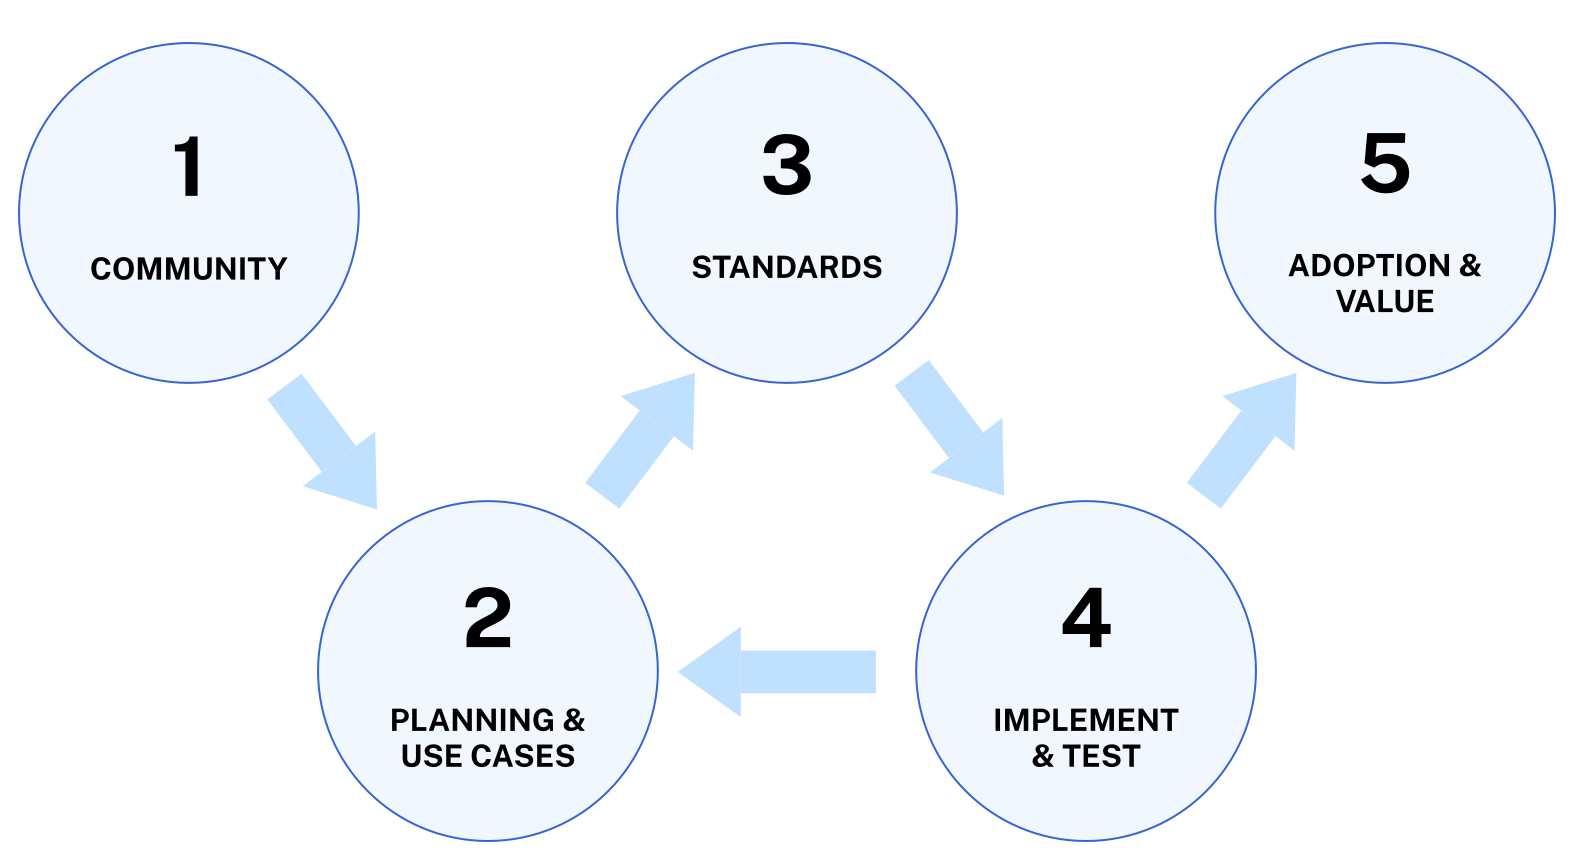
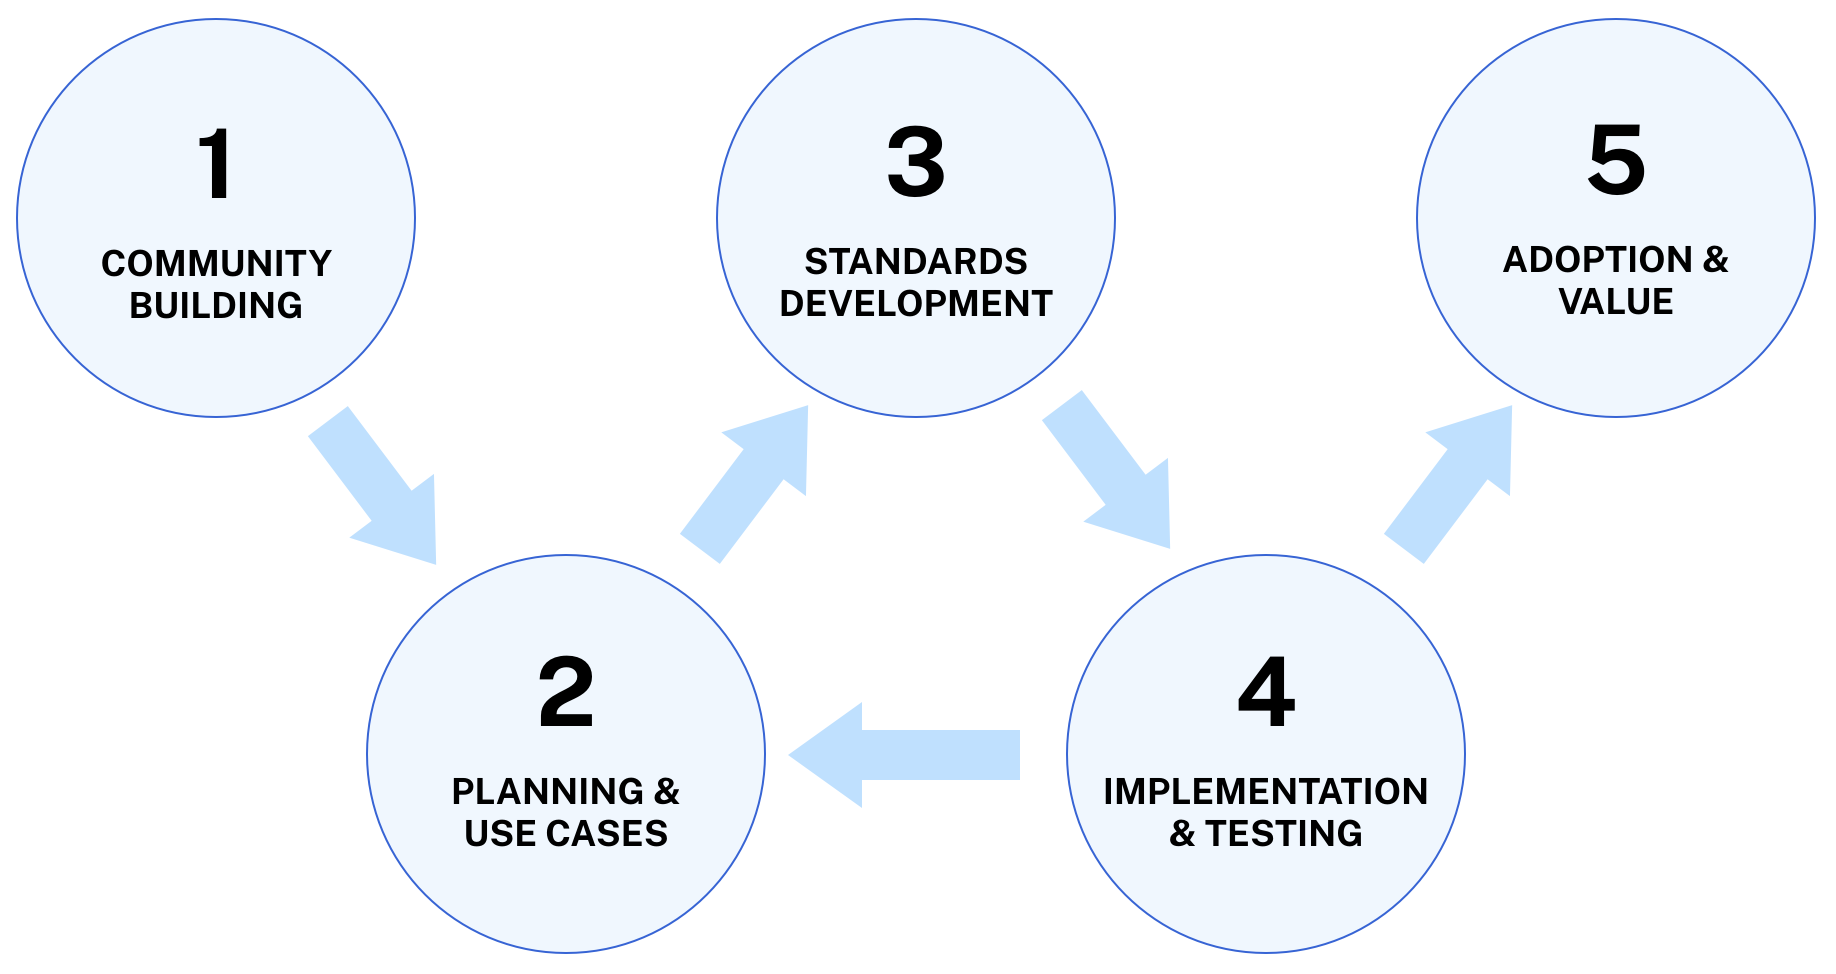
Update with grammar and clarity fixes

diff --git a/source/stylesheets/site.css.scss b/source/stylesheets/site.css.scss
@@ -141,6 +141,12 @@ ol.section-list li {
   margin:1rem 0;
   a:first-child {font-weight:bold;}
 }
+
+ol.action-list>li {
+font-weight:bold;
+ margin-bottom:1em;
+ul li {font-weight:normal;}}
+
 .playbook-bottom-navigation {
   display:flex;
   margin:5rem 0;
